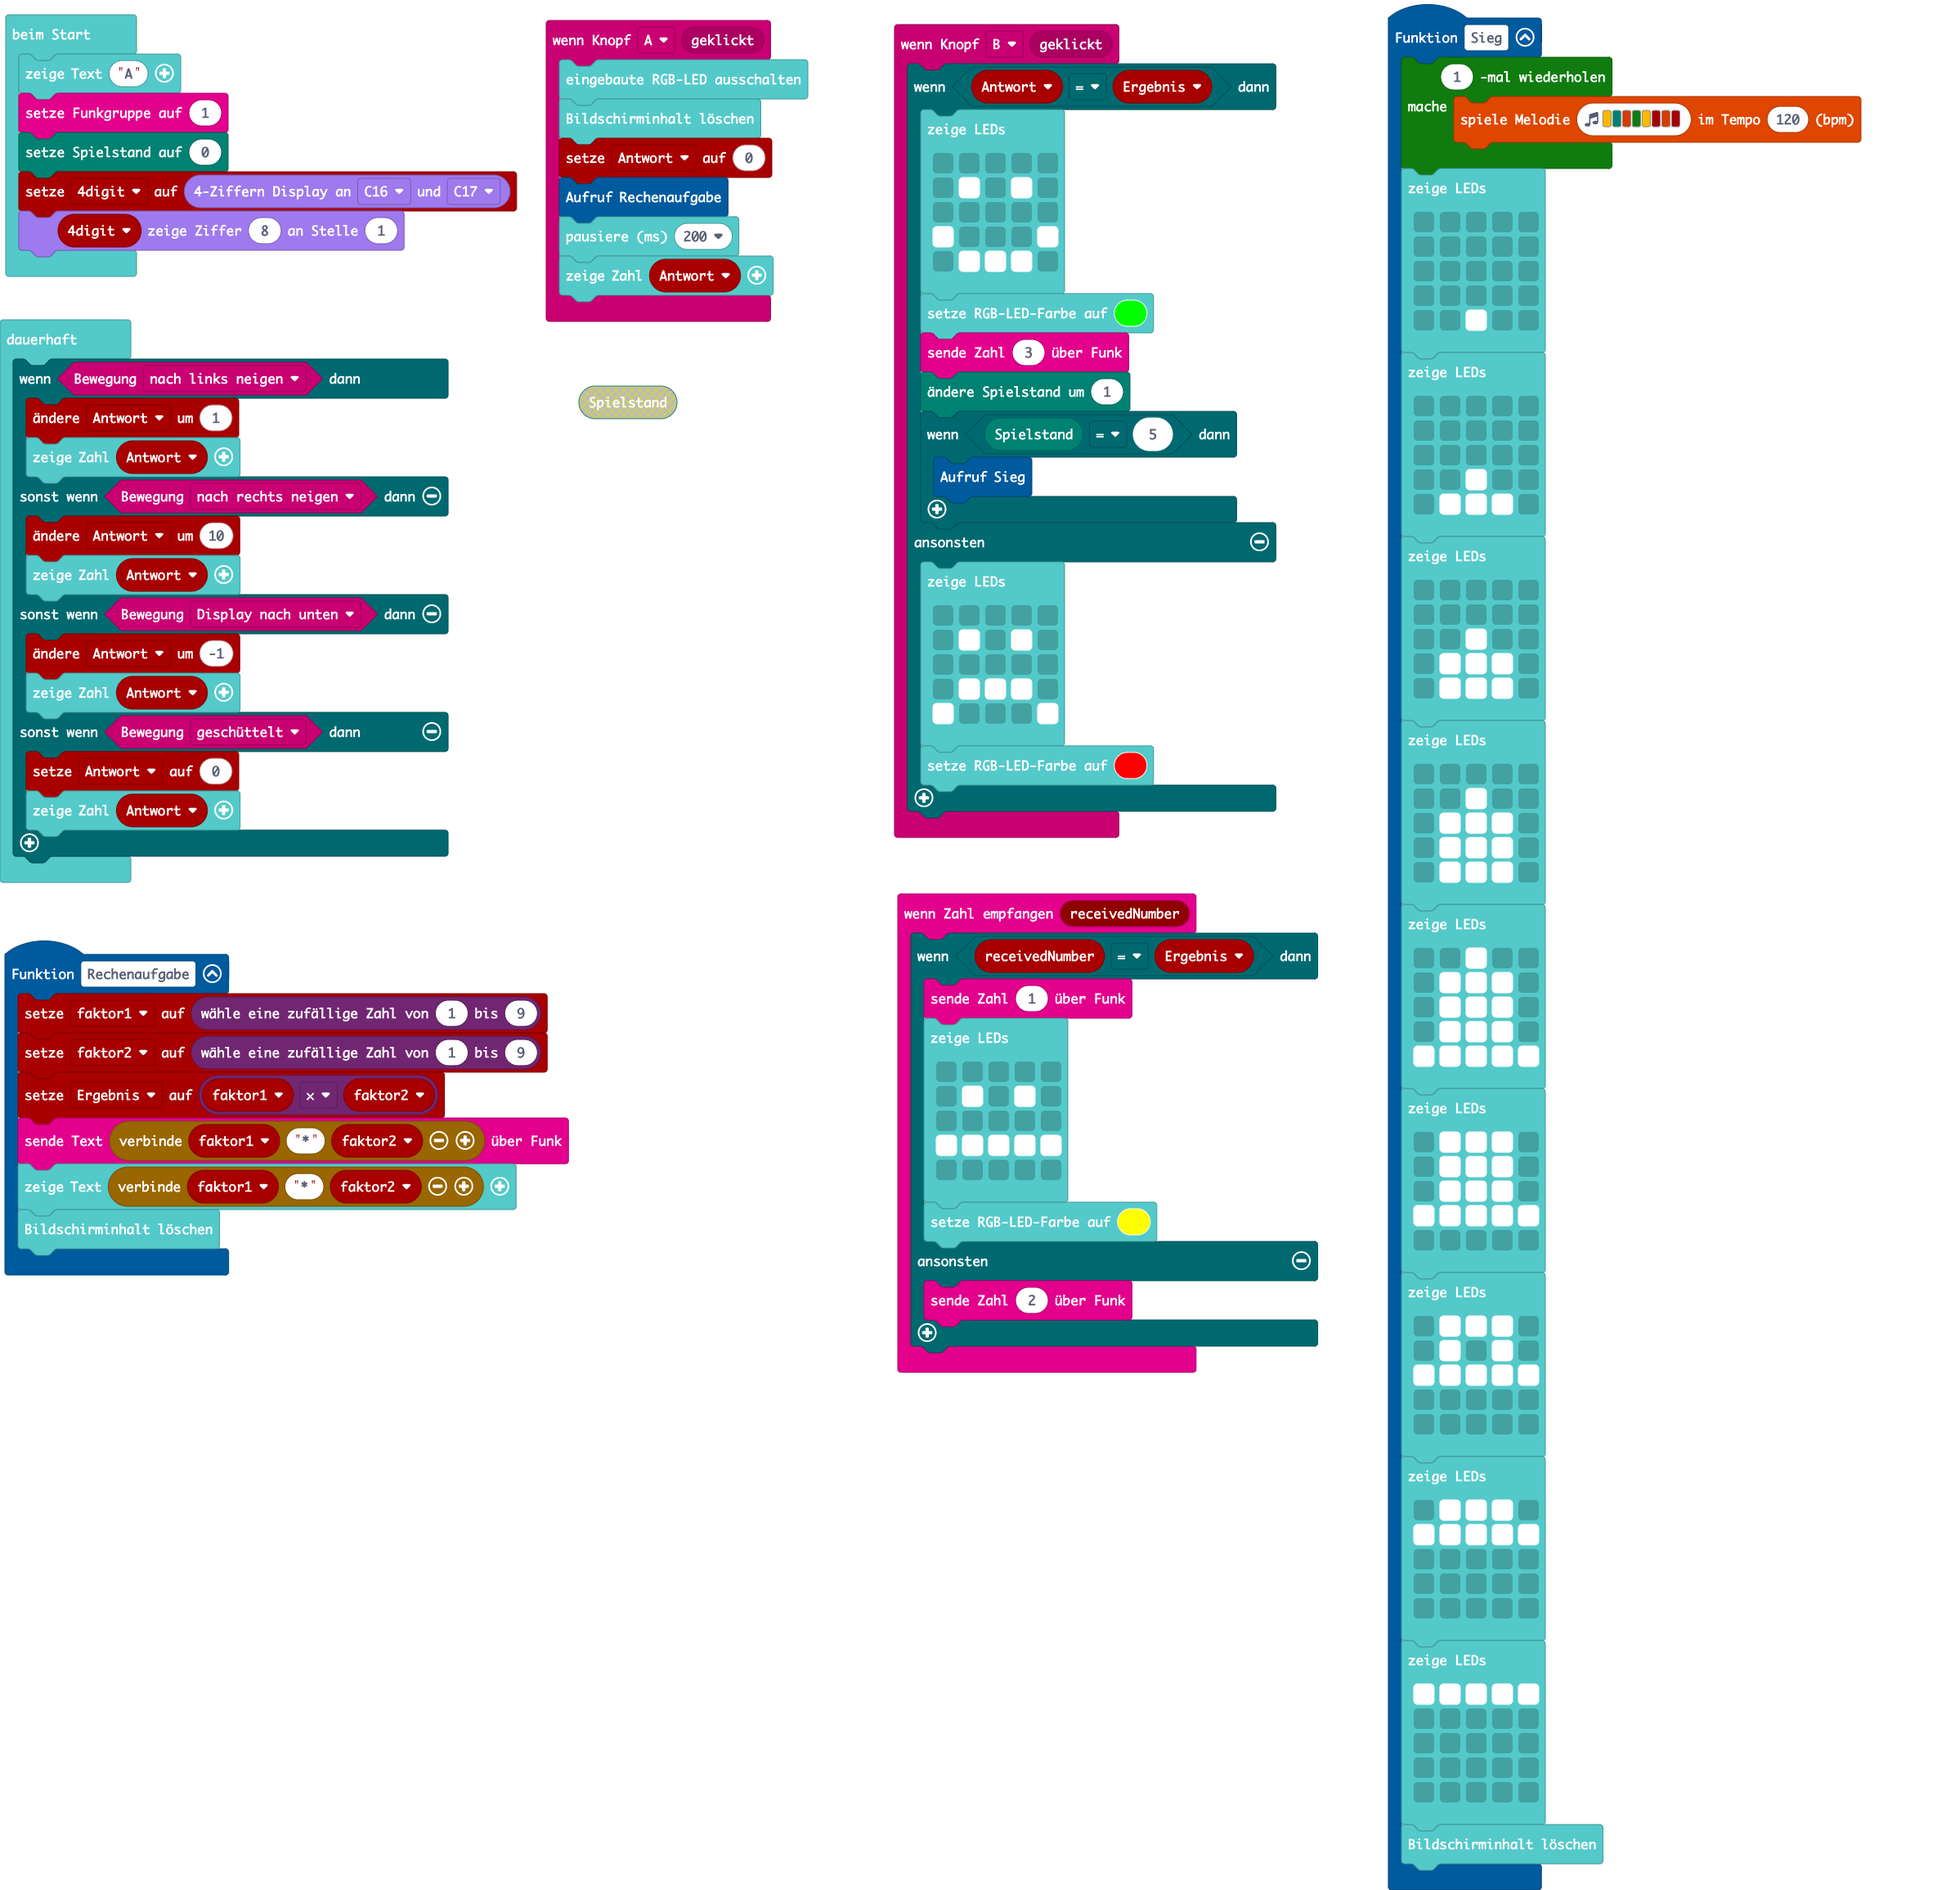
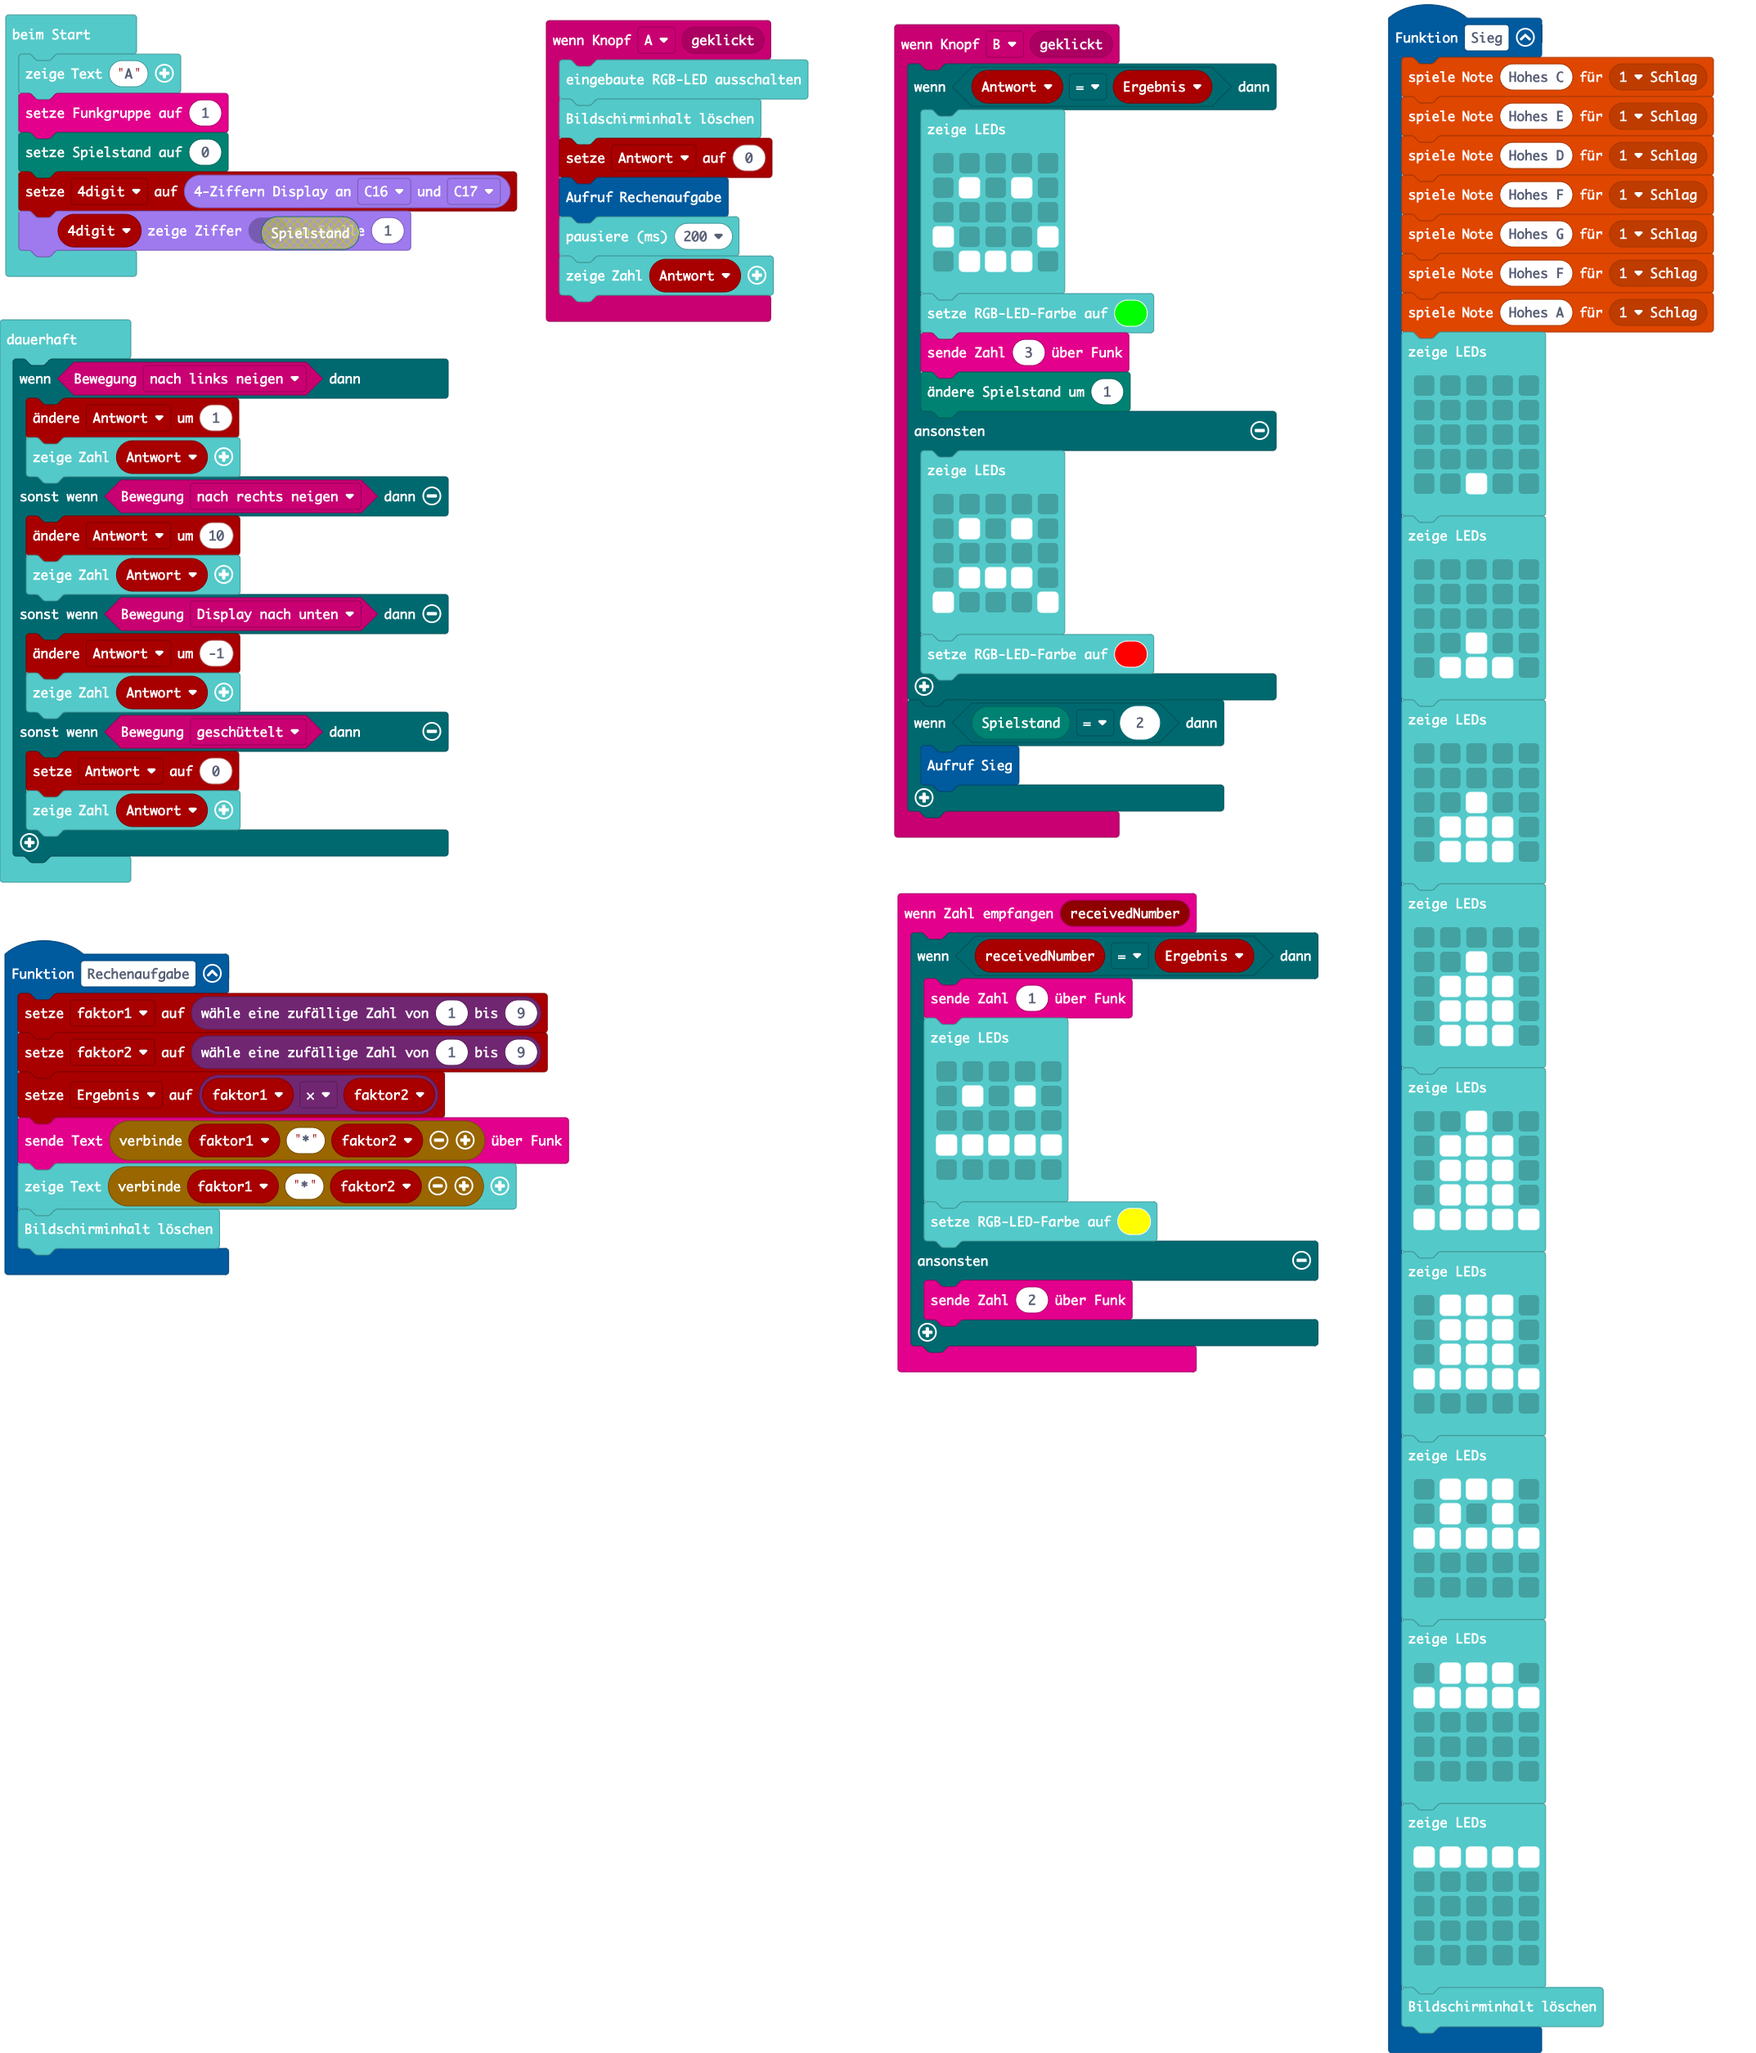
Aktualisiere main.blocks, main.ts

diff --git a/main.ts b/main.ts
@@ -5,7 +5,6 @@ enum RadioMessage {
 radio.onReceivedNumber(function (receivedNumber) {
     if (receivedNumber == Ergebnis) {
         radio.sendNumber(1)
-        basic.setLedColor(0xffff00)
         basic.showLeds(`
             . . . . .
             . # . # .
@@ -13,7 +12,7 @@ radio.onReceivedNumber(function (receivedNumber) {
             # # # # #
             . . . . .
             `)
-        basic.pause(500)
+        basic.setLedColor(0xffff00)
     } else {
         radio.sendNumber(2)
     }
@@ -28,19 +27,17 @@ input.onButtonEvent(Button.A, input.buttonEventClick(), function () {
 })
 input.onButtonEvent(Button.B, input.buttonEventClick(), function () {
     if (Antwort == Ergebnis) {
+        basic.showLeds(`
+            . . . . .
+            . # . # .
+            . . . . .
+            # . . . #
+            . # # # .
+            `)
+        basic.setLedColor(0x00ff00)
         radio.sendNumber(3)
         game.addScore(1)
-        basic.setLedColor(0x00ff00)
-        basic.showLeds(`
-            . . . . .
-            . # . # .
-            . . . . .
-            # . . . #
-            . # # # .
-            `)
-        basic.pause(500)
     } else {
-        basic.setLedColor(0xff0000)
         basic.showLeds(`
             . . . . .
             . # . # .
@@ -48,7 +45,7 @@ input.onButtonEvent(Button.B, input.buttonEventClick(), function () {
             . # # # .
             # . . . #
             `)
-        basic.pause(500)
+        basic.setLedColor(0xff0000)
     }
     if (game.score() == 2) {
         Sieg()
@@ -66,7 +63,7 @@ function Sieg () {
     music.playTone(523, music.beat(BeatFraction.Whole))
     music.playTone(659, music.beat(BeatFraction.Whole))
     music.playTone(587, music.beat(BeatFraction.Whole))
-    music.playTone(659, music.beat(BeatFraction.Whole))
+    music.playTone(698, music.beat(BeatFraction.Whole))
     music.playTone(784, music.beat(BeatFraction.Whole))
     music.playTone(698, music.beat(BeatFraction.Whole))
     music.playTone(880, music.beat(BeatFraction.Whole))
@@ -114,7 +111,7 @@ function Sieg () {
         `)
     basic.showLeds(`
         . # # # .
-        . # # # .
+        . # . # .
         # # # # #
         . . . . .
         . . . . .
@@ -143,8 +140,8 @@ basic.showString("A")
 radio.setGroup(1)
 game.setScore(0)
 let _4digit = grove.createDisplay(DigitalPin.C16, DigitalPin.C17)
+_4digit.bit(0, 1)
 basic.forever(function () {
-    _4digit.bit(game.score(), 1)
     if (input.isGesture(Gesture.TiltLeft)) {
         Antwort += 1
         basic.showNumber(Antwort)
